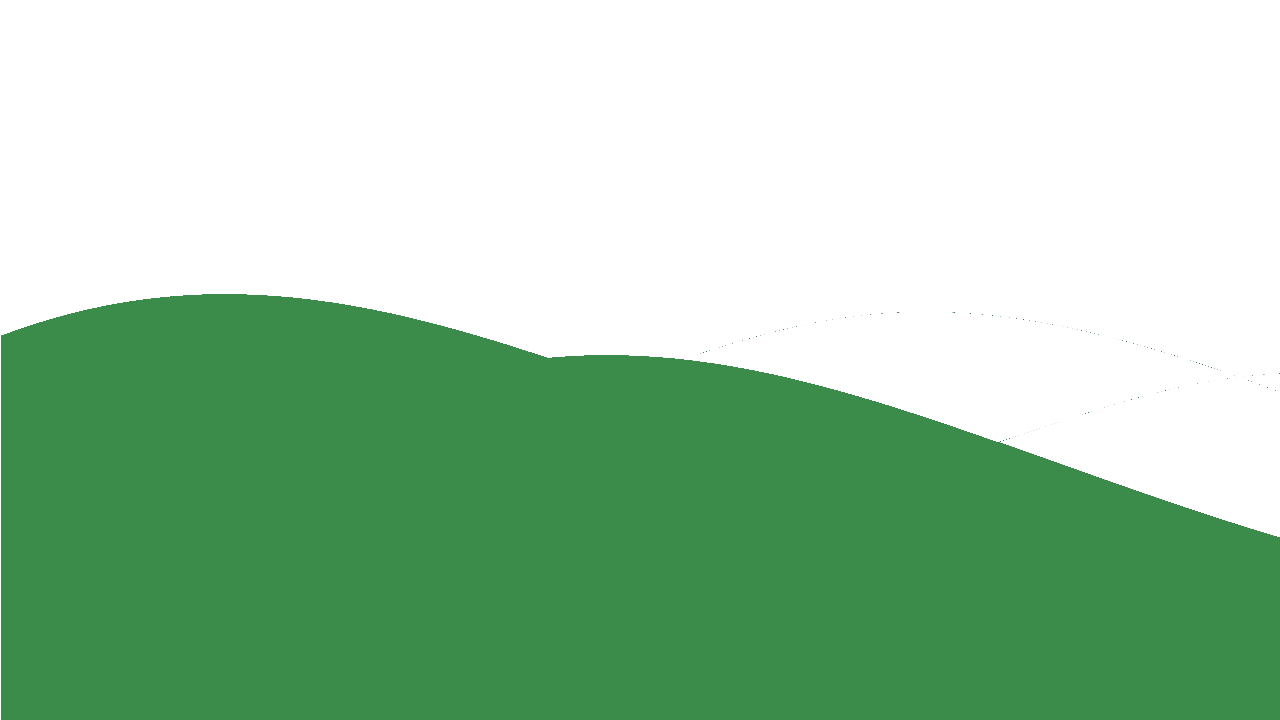
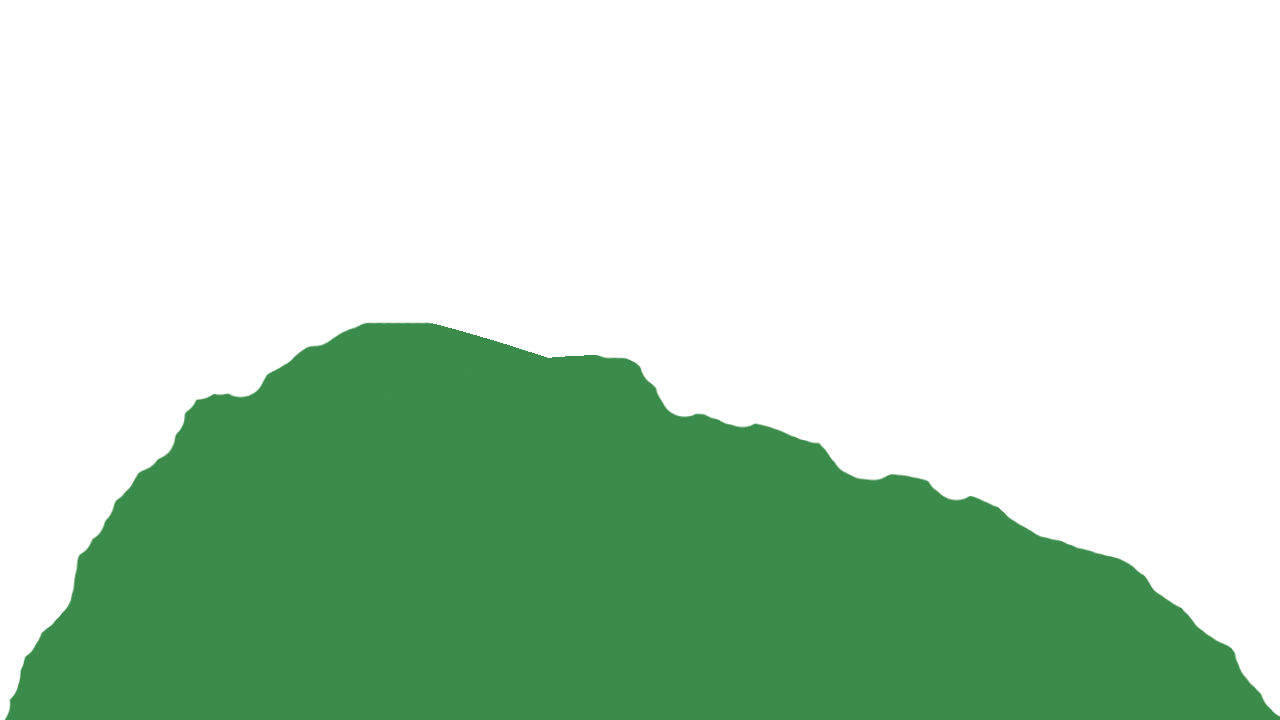
First good draft complete. Refactored objects to work fairly well together.

Changed region(s): [[0.0, 0.3972, 0.3438, 1.0], [0.4688, 0.4889, 1.0, 1.0]]

diff --git a/app/assets/stylesheets/animate.scss b/app/assets/stylesheets/animate.scss
@@ -5,77 +5,93 @@
 
 body{
   background: url('TheSky.png');
-  z-index: -2;
+  z-index: -50;
+}
+
+.wrapper{
+  width: 50%;
+}
+
+.body{
+  width: 100%;
+  height: 100%;
 }
 
 .background-1{
-  background: url('Grass1.png') repeat-x;
+  background: url('Grass1.png') center repeat-x;
   position: absolute;
-  width: 100%;
+  width: 130%;
   height: 50%;
   z-index: 0;
-  top: 0%;
+  top: 3%;
   left: 0%;
 }
 
 .background-2{
-  background: url('Grass2.png') repeat-x;
+  background: url('Grass2.png') center repeat-x;
   position: absolute;
-  width: 100%;
+  width: 150%;
   height: 50%;
-  z-index: -1;
-  top: 0%;
-  left: 2%;
+  z-index: 0;
+  top: 27%;
+  left: 0%;
+  -webkit-backface-visibility: hidden;
+  -webkit-transform: translateZ(0);
 }
 
 .road{
   background: url('Road.png') repeat-x;
   position: absolute;
-  width: 100%;
+  width: 150%;
   height: 100%;
   z-index: 0;
-  top: -4%;
+  top: -6%;
   left: 0%;
 }
 
 .sun{
-  background: url('TheSun.png') no-repeat;
+  background: url('TheSun.png') center no-repeat;
   position: absolute;
+  padding: 1% 0 0 15%;
   width: 100%;
-  height: 300%;
-  z-index: 0;
-  top: 5%;
-  left: 10%;
+  height: 100%;
+  z-index: 15;
+  top: -40%;
+  left: 0%;
 }
+
 
 .cloud{
   background: url('Cloud.png') no-repeat;
   position: absolute;
   width: 100%;
-  height: 300%;
-  z-index: 0;
+  height: 100%;
+  z-index: 1;
   top: 10%;
   left: 0%;
 }
 
 .cloud2{
-  background: url('Cloud.png') no-repeat;
+  background: url('Cloud.png') center no-repeat;
   position: absolute;
   width: 100%;
-  height: 300%;
-  z-index: 0;
-  top: 0%;
-  left: 45%;
+  height: 100%;
+  z-index: 20;
+  top: -40%;
+  left: 0%;
+  overflow: auto;
 }
 
 .cloud3{
-  background: url('Cloud.png') no-repeat;
+  background: url('Cloud.png') center no-repeat;
   position: absolute;
+  padding: 8% 0 0 40%;
   width: 100%;
-  height: 300%;
-  z-index: 0;
-  top: 7%;
-  left: 90%;
+  height: 100%;
+  z-index: 20;
+  top: -40%;
+  left: 0%;
+  overflow: auto;
 }
 
 .car{
@@ -112,9 +128,20 @@ body{
 
 
 @-webkit-keyframes background{
-  0%{background-position:;}
-  60%{ opacity: 1;}
-  100%{-webkit-transform: translate(-15%, -15%) rotateZ(20deg);}
+  100%{background-position: -300%;}
+}
+
+
+@-webkit-keyframes background-grass{
+  100%{background-position: -800% }
+}
+
+@-webkit-keyframes background-clouds{
+  100%{background-position: -200% }
+}
+
+@-webkit-keyframes background-ground{
+  100%{background-position: -600%}
 }
 
 //animations
@@ -124,4 +151,28 @@ body{
 
 .car::after{
   -webkit-animation: gas-burn 3s 2s ease-in-out infinite;
+}
+
+.background-1{
+  -webkit-animation: background-grass 200s ease-in-out infinite;
+}
+
+.cloud{
+  -webkit-animation: background 200s ease-in-out infinite;
+}
+
+.cloud2{
+  -webkit-animation: background-clouds 175s ease-in-out infinite;
+}
+
+.cloud3{
+  -webkit-animation: background 140s ease-in-out infinite;
+}
+
+.sun{
+  -webkit-animation: background 200s ease-in-out infinite;
+}
+
+.road{
+  -webkit-animation: background-ground 60s ease-out infinite;
 }
